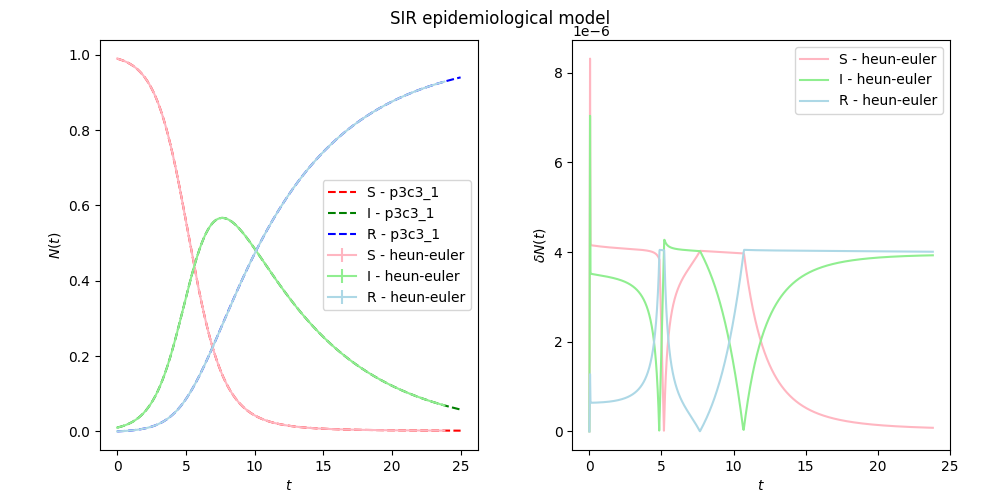
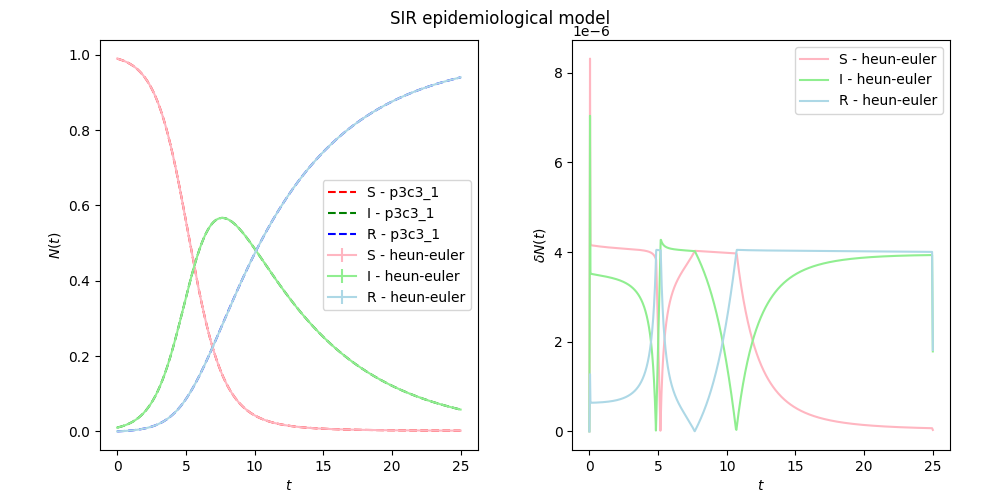
Corrected examples.

diff --git a/examples/newton_cooling/newton_cooling.py b/examples/newton_cooling/newton_cooling.py
@@ -1,9 +1,6 @@
 import numpy as np
 import matplotlib.pyplot as plt
 import scipy.integrate
-# from ODEmethods.methods import rk_methods, predictor, corrector
-# from ODEmethods.rungekutta import RKMethod 
-# from ODEmethods.pece import PECE
 from ODEmethods.methods import rk_methods, predictor, corrector
 from ODEmethods.rungekutta import RKMethod 
 from ODEmethods.pece import PECE
@@ -66,12 +63,12 @@ plt.subplot(2, 2, 1)
 plt.errorbar(rk2[0], rk2[1], yerr=rk2[2], label='cash-karp', color='red')
 plt.errorbar(rk3[0], rk3[1], yerr=rk3[2], label='dormand-prince', color='darkturquoise')
 plt.plot(rk1[0], rk1[1], label='euler', color='orange')
-# plt.plot(pc1[0], pc1[:,1], label='p1c2_1', color='lime')
-# plt.plot(pc2[0], pc2[:,1], label='p4c4_3', color='blue')
+plt.plot(pc1[0], pc1[1], label='p1c2_1', color='lime')
+plt.plot(pc2[0], pc2[1], label='p4c4_3', color='blue')
 plt.plot(sc1['t'], sc1['y'][0], label='scipy.solve_ivp', color='purple')
 plt.plot(sct, sc2, label='scipy.odeint', color='fuchsia')
-plt.plot(sc3[0], sc3[1], label='scipy.RK45', color='gold')
-plt.plot(sc4[0], sc4[1], label='scipy.DOP853', color='cyan')
+plt.plot(sc3[0], sc3[1], label='scipy.RK45', color='brown')
+plt.plot(sc4[0], sc4[1], label='scipy.DOP853', color='green')
 plt.plot(rk2[0], analytical_heat(rk2[0], 21, par), label='analytical', color='black', linestyle='--')
 plt.xlabel(r'$t$')
 plt.ylabel(r'$T(t)$')
@@ -81,12 +78,12 @@ plt.subplot(2, 2, 2)
 plt.errorbar(rk2[0], rk2[1], yerr=rk2[2], label='cash-karp', color='red')
 plt.errorbar(rk3[0], rk3[1], yerr=rk3[2], label='dormand-prince', color='darkturquoise')
 plt.plot(rk1[0], rk1[1], label='euler', color='orange')
-# plt.plot(pc1[0], pc1[:,1], label='p1c2_1', color='lime')
-# plt.plot(pc2[0], pc2[:,1], label='p4c4_3', color='blue')
+plt.plot(pc1[0], pc1[1], label='p1c2_1', color='lime')
+plt.plot(pc2[0], pc2[1], label='p4c4_3', color='blue')
 plt.plot(sc1['t'], sc1['y'][0], label='scipy.solve_ivp', color='purple')
 plt.plot(sct, sc2, label='scipy.odeint', color='fuchsia')
-plt.plot(sc3[0], sc3[1], label='scipy.RK45', color='gold')
-plt.plot(sc4[0], sc4[1], label='scipy.DOP853', color='cyan')
+plt.plot(sc3[0], sc3[1], label='scipy.RK45', color='brown')
+plt.plot(sc4[0], sc4[1], label='scipy.DOP853', color='green')
 plt.plot(rk2[0], analytical_heat(rk2[0], 21, par), label='analytical', color='black', linestyle='--')
 plt.xlabel(r'$t$')
 plt.ylabel(r'$T(t)$')
@@ -99,12 +96,12 @@ plt.semilogy(rk3[0], rk3[2], label='dp_estimate', color='paleturquoise', linesty
 plt.semilogy(rk2[0], np.absolute(rk2[1]-analytical_heat(rk2[0], 21, par)), label='cash-karp', color='red')
 plt.semilogy(rk3[0], np.absolute(rk3[1]-analytical_heat(rk3[0], 21, par)), label='dormand-prince', color='darkturquoise')
 plt.semilogy(rk1[0], np.absolute(rk1[1]-analytical_heat(rk1[0], 21, par)), label='euler', color='orange')
-# plt.semilogy(pc1[0], np.absolute(pc1[1]-analytical_heat(pc1[0], 21, par)), label='p1c2_1', color='lime')
-# plt.semilogy(pc2[0], np.absolute(pc2[1]-analytical_heat(pc2[0], 21, par)), label='p4c4_3', color='blue')
+plt.semilogy(pc1[0], np.absolute(pc1[1]-analytical_heat(pc1[0], 21, par)), label='p1c2_1', color='lime')
+plt.semilogy(pc2[0], np.absolute(pc2[1]-analytical_heat(pc2[0], 21, par)), label='p4c4_3', color='blue')
 plt.semilogy(sc1['t'], np.absolute(sc1['y'][0]-analytical_heat(sc1['t'], 21, par)), label='scipy.solve_ivp', color='purple')
 plt.semilogy(sct, np.absolute(sc2-analytical_heat(sct, 21, par)), label='scipy.odeint', color='fuchsia')
-plt.semilogy(sc3[0], np.absolute(sc3[0]-analytical_heat(sc3[0], 21, par)), label='scipy.RK45', color='gold')
-plt.semilogy(sc4[0], np.absolute(sc4[0]-analytical_heat(sc4[0], 21, par)), label='scipy.DOP853', color='cyan')
+plt.semilogy(sc3[0], np.absolute(sc3[0]-analytical_heat(sc3[0], 21, par)), label='scipy.RK45', color='brown')
+plt.semilogy(sc4[0], np.absolute(sc4[0]-analytical_heat(sc4[0], 21, par)), label='scipy.DOP853', color='green')
 plt.xlabel(r'$t$')
 plt.ylabel(r'$\Delta T(t)$')
 plt.legend(fontsize="x-small")
@@ -115,12 +112,12 @@ plt.loglog(rk3[0], rk3[2], label='dp_estimate', color='paleturquoise', linestyle
 plt.loglog(rk2[0], np.absolute(rk2[1]-analytical_heat(rk2[0], 21, par)), label='cash-karp', color='red')
 plt.loglog(rk3[0], np.absolute(rk3[1]-analytical_heat(rk3[0], 21, par)), label='dormand-prince', color='darkturquoise')
 plt.loglog(rk1[0], np.absolute(rk1[1]-analytical_heat(rk1[0], 21, par)), label='euler', color='orange')
-# plt.loglog(pc1[0], np.absolute(pc1[1]-analytical_heat(pc1[0], 21, par)), label='p1c2_1', color='lime')
-# plt.loglog(pc2[0], np.absolute(pc2[1]-analytical_heat(pc2[0], 21, par)), label='p4c4_3', color='blue')
+plt.loglog(pc1[0], np.absolute(pc1[1]-analytical_heat(pc1[0], 21, par)), label='p1c2_1', color='lime')
+plt.loglog(pc2[0], np.absolute(pc2[1]-analytical_heat(pc2[0], 21, par)), label='p4c4_3', color='blue')
 plt.loglog(sc1['t'], np.absolute(sc1['y'][0]-analytical_heat(sc1['t'], 21, par)), label='scipy.solve_ivp', color='purple')
 plt.loglog(sct, np.absolute(sc2-analytical_heat(sct, 21, par)), label='scipy.odeint', color='fuchsia')
-plt.loglog(sc3[0], np.absolute(sc3[0]-analytical_heat(sc3[0], 21, par)), label='scipy.RK45', color='gold')
-plt.loglog(sc4[0], np.absolute(sc4[0]-analytical_heat(sc4[0], 21, par)), label='scipy.DOP853', color='cyan')
+plt.loglog(sc3[0], np.absolute(sc3[0]-analytical_heat(sc3[0], 21, par)), label='scipy.RK45', color='brown')
+plt.loglog(sc4[0], np.absolute(sc4[0]-analytical_heat(sc4[0], 21, par)), label='scipy.DOP853', color='green')
 plt.xlabel(r'$t$')
 plt.ylabel(r'$\Delta T(t)$')
 plt.legend(fontsize="x-small")

diff --git a/examples/math_pendulum/math_pendulum.py b/examples/math_pendulum/math_pendulum.py
@@ -13,6 +13,7 @@ def kinetic_matpend(p, w=1.):
     return 0.5*((p/w)**2.)
 
 def potential_matpend(q):
+    q = list(q)
     return (1.-np.cos(q))
 
 par=1.
@@ -26,7 +27,7 @@ fig.set_size_inches(8, 8)
 for y0 in [[-3.*np.pi, 1.],[-3.*np.pi, 2.5],[3.*np.pi, -1.],[3.*np.pi, -2.5],[-2.*np.pi, 1.9],[-2.*np.pi, 1.7],[-2.*np.pi, 1.],[-2.*np.pi, 0.5],[2.*np.pi, 1.9],[2.*np.pi, 1.7],[2.*np.pi, 1.],[2.*np.pi, 0.5],[0., 1.9],[0., 1.7],[0., 1.],[0., 0.5]]:
     # RK methods
     problem_rk = RKMethod(rk_methods["euler"], matpend, par)
-    rk = problem_rk.run(x0=0, y0=y0, stepnum=n, stepsize=h)
+    rk = problem_rk.run(x0=0, xf=n*h, y0=y0, init_step=h)
 
     # PECE methods
     problem_pc = PECE(predictor[0], corrector[0], matpend, par)
@@ -37,17 +38,17 @@ for y0 in [[-3.*np.pi, 1.],[-3.*np.pi, 2.5],[3.*np.pi, -1.],[3.*np.pi, -2.5],[-2
     si = problem_si.run(x0=0, y0=y0, stepnum=n, stepsize=h)
 
     # Plotting
-    axs[0].plot(rk[1][0], potential_matpend(rk[1][0]), color='green')
-    axs[0].plot(pc[1][0], potential_matpend(pc[1][0]), color='red')
-    axs[0].plot(si[1][0], potential_matpend(si[1][0]), color='blue')
+    axs[0].plot(rk[1][:,0], potential_matpend(rk[1][:,0]), color='green')
+    axs[0].plot(pc[1][:,0], potential_matpend(pc[1][:,0]), color='red')
+    axs[0].plot(si[1][:,0], potential_matpend(si[1][:,0]), color='blue')
 
-    axs[1].plot(rk[1][0], rk[1][1], color='green')
-    axs[1].plot(pc[1][0], pc[1][1], color='red')
-    axs[1].plot(si[1][0], si[1][1], color='blue')
+    axs[1].plot(rk[1][:,0], rk[1][:,1], color='green')
+    axs[1].plot(pc[1][:,0], pc[1][:,1], color='red')
+    axs[1].plot(si[1][:,0], si[1][:,1], color='blue')
 
-    axs[2].plot(rk[0], potential_matpend(rk[1][0])+kinetic_matpend(rk[1][1]), color='green')
-    axs[2].plot(pc[0], potential_matpend(pc[1][0])+kinetic_matpend(pc[1][1]), color='red')
-    axs[2].plot(si[0], potential_matpend(si[1][0])+kinetic_matpend(si[1][1]), color='blue')
+    axs[2].plot(rk[0], potential_matpend(rk[1][:,0])+kinetic_matpend(rk[1][:,1]), color='green')
+    axs[2].plot(pc[0], potential_matpend(pc[1][:,0])+kinetic_matpend(pc[1][:,1]), color='red')
+    axs[2].plot(si[0], potential_matpend(si[1][:,0])+kinetic_matpend(si[1][:,1]), color='blue')
     
 axs[0].set_title("Potential energy")
 axs[0].set_xlim([-3.*np.pi, 3.*np.pi])
@@ -75,5 +76,5 @@ axs[2].set_ylabel(r'$W_p(t)+W_k(t)$')
 axs[2].legend(["euler_rk","p1c2_1", "PEFRL"])
 
 plt.subplots_adjust(left=0.1, right=0.95, bottom=0.07, top=0.92, wspace=0.25, hspace=0.4)
-plt.savefig("examples/math_pendulum/math_pendulum.png")
+plt.savefig("math_pendulum.png")
 plt.show()

diff --git a/examples/SIRmodel/SIRmodel.py b/examples/SIRmodel/SIRmodel.py
@@ -11,8 +11,10 @@ def SIRmodel(t, y, par=[0.01, 0.02]):
 par=[1., 0.15]
 
 # RK methods
+stepnum=1000
+stepsize=0.025
 problem_rk = RKMethod(rk_methods["heun_euler"], SIRmodel, par)
-rk = problem_rk.run(x0=0, y0=[0.99, 0.01, 0.], stepnum=1000, stepsize=0.025, adaptive=True, tolerance=10e-6)
+rk = problem_rk.run(x0=0, xf=stepnum*stepsize, y0=[0.99, 0.01, 0.], init_step=stepsize, adaptive=True, tolerance=10e-6)
 
 # PECE methods
 problem_pc = PECE(predictor[2], corrector[1], SIRmodel, par)
@@ -24,25 +26,25 @@ plt.suptitle("SIR epidemiological model")
 fig.set_size_inches(10, 5)
 
 plt.subplot(1, 2, 1)
-plt.errorbar(rk[0], rk[1][0], yerr=rk[2][0], color='lightpink', label='S - heun-euler')
-plt.errorbar(rk[0], rk[1][1], yerr=rk[2][1], color='lightgreen', label='I - heun-euler')
-plt.errorbar(rk[0], rk[1][2], yerr=rk[2][2], color='lightblue', label='R - heun-euler')
+plt.errorbar(rk[0], rk[1][:,0], yerr=rk[2][:,0], color='lightpink', label='S - heun-euler')
+plt.errorbar(rk[0], rk[1][:,1], yerr=rk[2][:,1], color='lightgreen', label='I - heun-euler')
+plt.errorbar(rk[0], rk[1][:,2], yerr=rk[2][:,2], color='lightblue', label='R - heun-euler')
 
-plt.plot(pc[0], pc[1][0], 'r--', label='S - p3c3_1')
-plt.plot(pc[0], pc[1][1], 'g--', label='I - p3c3_1')
-plt.plot(pc[0], pc[1][2], 'b--', label='R - p3c3_1')
+plt.plot(pc[0], pc[1][:,0], 'r--', label='S - p3c3_1')
+plt.plot(pc[0], pc[1][:,1], 'g--', label='I - p3c3_1')
+plt.plot(pc[0], pc[1][:,2], 'b--', label='R - p3c3_1')
 plt.xlabel(r'$t$')
 plt.ylabel(r'$N(t)$')
 plt.legend()
 
 plt.subplot(1, 2, 2)
-plt.plot(rk[0], rk[2][0], color='lightpink', label='S - heun-euler')
-plt.plot(rk[0], rk[2][1], color='lightgreen', label='I - heun-euler')
-plt.plot(rk[0], rk[2][2], color='lightblue', label='R - heun-euler')
+plt.plot(rk[0], rk[2][:,0], color='lightpink', label='S - heun-euler')
+plt.plot(rk[0], rk[2][:,1], color='lightgreen', label='I - heun-euler')
+plt.plot(rk[0], rk[2][:,2], color='lightblue', label='R - heun-euler')
 plt.xlabel(r'$t$')
 plt.ylabel(r'$\delta N(t)$')
 plt.legend()
 
 plt.subplots_adjust(left=0.1, right=0.95, bottom=0.1, top=0.92, wspace=0.25, hspace=0.3)
-plt.savefig("examples/SIRmodel/SIRmodel.png")
+plt.savefig("SIRmodel.png")
 plt.show()

diff --git a/examples/iodine_clock/iodine_clock.py b/examples/iodine_clock/iodine_clock.py
@@ -18,36 +18,38 @@ def iodine_clock(t, y, par):
 par = [1, 10, 100, 1000]
 
 # RK methods
+stepnum=10000
+stepsize=0.001
 problem_rk = RKMethod(rk_methods["original_rk"], iodine_clock, par)
-rk = problem_rk.run(x0=0, y0=[1., 0., 0.25, .09, 0., 1., 0., 0.], stepnum=10000, stepsize=0.001)
+rk = problem_rk.run(x0=0, xf=stepnum*stepsize, y0=[1., 0., 0.25, .09, 0., 1., 0., 0.], init_step=0.001)
 
 # Script for plotting graphs
 fig = plt.figure()
 fig.set_size_inches(13, 5)
 
 plt.subplot(1, 2, 1)
-plt.plot(rk[0], rk[1][0])
-plt.plot(rk[0], rk[1][1])
-plt.plot(rk[0], rk[1][2])
-plt.plot(rk[0], rk[1][3])
-plt.plot(rk[0], rk[1][4])
-plt.plot(rk[0], rk[1][5])
-plt.plot(rk[0], rk[1][6])
-plt.plot(rk[0], rk[1][7])
+plt.plot(rk[0], rk[1][:,0])
+plt.plot(rk[0], rk[1][:,1])
+plt.plot(rk[0], rk[1][:,2])
+plt.plot(rk[0], rk[1][:,3])
+plt.plot(rk[0], rk[1][:,4])
+plt.plot(rk[0], rk[1][:,5])
+plt.plot(rk[0], rk[1][:,6])
+plt.plot(rk[0], rk[1][:,7])
 
 plt.xlabel(r'$t$')
 plt.ylabel(r'$N(t)$')
 plt.legend(('$S_2 O^{2-}_8$', '$I^-$', '$IS_2 O^{2-}_8$', '$I_2$', '$SO^{2-}_4$', '$S_2 O^{2-}_3$', '$IS_2 O^{-}_3$', '$S_4 O^{2-}_6$'), loc='upper right')
 
 plt.subplot(1, 2, 2)
-plt.semilogx(rk[0], rk[1][0])
-plt.semilogx(rk[0], rk[1][1])
-plt.semilogx(rk[0], rk[1][2])
-plt.semilogx(rk[0], rk[1][3])
-plt.semilogx(rk[0], rk[1][4])
-plt.semilogx(rk[0], rk[1][5])
-plt.semilogx(rk[0], rk[1][6])
-plt.semilogx(rk[0], rk[1][7])
+plt.semilogx(rk[0], rk[1][:,0])
+plt.semilogx(rk[0], rk[1][:,1])
+plt.semilogx(rk[0], rk[1][:,2])
+plt.semilogx(rk[0], rk[1][:,3])
+plt.semilogx(rk[0], rk[1][:,4])
+plt.semilogx(rk[0], rk[1][:,5])
+plt.semilogx(rk[0], rk[1][:,6])
+plt.semilogx(rk[0], rk[1][:,7])
 
 plt.xlabel(r'$t$')
 plt.ylabel(r'$N(t)$')
@@ -55,5 +57,5 @@ plt.suptitle("Iodine clock: Persulfate variation")
 plt.legend(('$S_2 O^{2-}_8$', '$I^-$', '$IS_2 O^{2-}_8$', '$I_2$', '$SO^{2-}_4$', '$S_2 O^{2-}_3$', '$IS_2 O^{-}_3$', '$S_4 O^{2-}_6$'), loc='upper left')
 
 plt.subplots_adjust(left=0.1, right=0.95, bottom=0.1, top=0.9, wspace=0.25, hspace=0.3)
-plt.savefig("examples/iodine_clock/iodine_clock.png")
+plt.savefig("iodine_clock.png")
 plt.show()

diff --git a/examples/two_body/two_body.py b/examples/two_body/two_body.py
@@ -31,7 +31,7 @@ si = problem_si.run(x0=0, y0=y0, stepnum=n, stepsize=h)
 
 # Runge-Kutta methods
 problem_rk = RKMethod(rk_methods["original_rk"], two_body, par)
-rk = problem_rk.run(x0=0, y0=y0, stepnum=n, stepsize=h)
+rk = problem_rk.run(x0=0, xf=(n-1)*h, y0=y0, init_step=h)
 
 # PECE methods
 problem_pc = PECE(predictor[3], corrector[3], two_body, par)
@@ -46,12 +46,12 @@ def update_lines(num, dataLines, lines):
 fig, ax = plt.subplots()
 
 data = np.empty((6, 2, n+1))
-data[0] = rk[1][:4:2]
-data[1] = rk[1][4::2]
-data[2] = pc[1][:4:2]
-data[3] = pc[1][4::2]
-data[4] = si[1][:4:2]
-data[5] = si[1][4::2]
+data[0] = np.transpose(rk[1][:,:4:2])
+data[1] = np.transpose(rk[1][:,4::2])
+data[2] = np.transpose(pc[1][:,:4:2])
+data[3] = np.transpose(pc[1][:,4::2])
+data[4] = np.transpose(si[1][:,:4:2])
+data[5] = np.transpose(si[1][:,4::2])
 
 lines = []
 colors = ["green","lightgreen","red","pink","blue","lightblue"]
@@ -68,5 +68,5 @@ plt.suptitle("Two-body problem")
 
 line_ani = animation.FuncAnimation(fig, update_lines, n+1, fargs=(data, lines), interval=1, blit=False, save_count=n+1)
 writergif = animation.PillowWriter(fps=30)
-line_ani.save("examples/two_body/two_body.gif", writer=writergif)
+line_ani.save("two_body.gif", writer=writergif)
 plt.show()

diff --git a/examples/three_body/three_body.py b/examples/three_body/three_body.py
@@ -58,15 +58,15 @@ fig = plt.figure()
 ax = p3.Axes3D(fig)
 
 data = np.empty((9, 3, n+1))
-data[0] = si1[1][:6:2]
-data[1] = si1[1][6:12:2]
-data[2] = si1[1][12::2]
-data[3] = si2[1][:6:2]
-data[4] = si2[1][6:12:2]
-data[5] = si2[1][12::2]
-data[6] = si3[1][:6:2]
-data[7] = si3[1][6:12:2]
-data[8] = si3[1][12::2]
+data[0] = np.transpose(si1[1][:,:6:2])
+data[1] = np.transpose(si1[1][:,6:12:2])
+data[2] = np.transpose(si1[1][:,12::2])
+data[3] = np.transpose(si2[1][:,:6:2])
+data[4] = np.transpose(si2[1][:,6:12:2])
+data[5] = np.transpose(si2[1][:,12::2])
+data[6] = np.transpose(si3[1][:,:6:2])
+data[7] = np.transpose(si3[1][:,6:12:2])
+data[8] = np.transpose(si3[1][:,12::2])
 
 lines = []
 colors = ["darkgreen","green","limegreen","darkred","red","lightcoral","blue","royalblue","cornflowerblue"]
@@ -85,5 +85,5 @@ plt.suptitle('Three-body problem')
 
 line_ani = animation.FuncAnimation(fig, update_lines, n+1, fargs=(data, lines), interval=1, blit=False, save_count=n+1)
 writergif = animation.PillowWriter(fps=30)
-line_ani.save("examples/three_body/three_body.gif", writer=writergif)
+line_ani.save("three_body.gif", writer=writergif)
 plt.show()

diff --git a/examples/henon_heiles/henon_heiles.py b/examples/henon_heiles/henon_heiles.py
@@ -19,10 +19,10 @@ def poincare(si):
     # poincare map for x=0
     si = np.array(si)
     y = []
-    for i in range(len(si[0])):
-        if (si[0,i] > 0. and si[0,i-1] <= 0.):
-            dx = si[0,i] - si[0,i-1]
-            y_poincare = si[:,i-1] + ((si[:,i] - si[:,i-1])/dx)*(0.-si[0,i-1])
+    for i in range(len(si)):
+        if (si[i,0] > 0. and si[i-1,0] <= 0.):
+            dx = si[i,0] - si[i-1,0]
+            y_poincare = si[i-1] + ((si[i] - si[i-1])/dx)*(0.-si[i-1,0])
             y.append(y_poincare)
     return np.array(y)
 
@@ -51,5 +51,5 @@ for i in range(len(e_ar)):
     axs[i].set_aspect(1)
 
 plt.subplots_adjust(left=0.1, right=0.95, bottom=0.1, top=0.9, wspace=0.25, hspace=0.3)
-plt.savefig("examples/henon_heiles/henon_heiles.png")
+plt.savefig("henon_heiles.png")
 plt.show()
